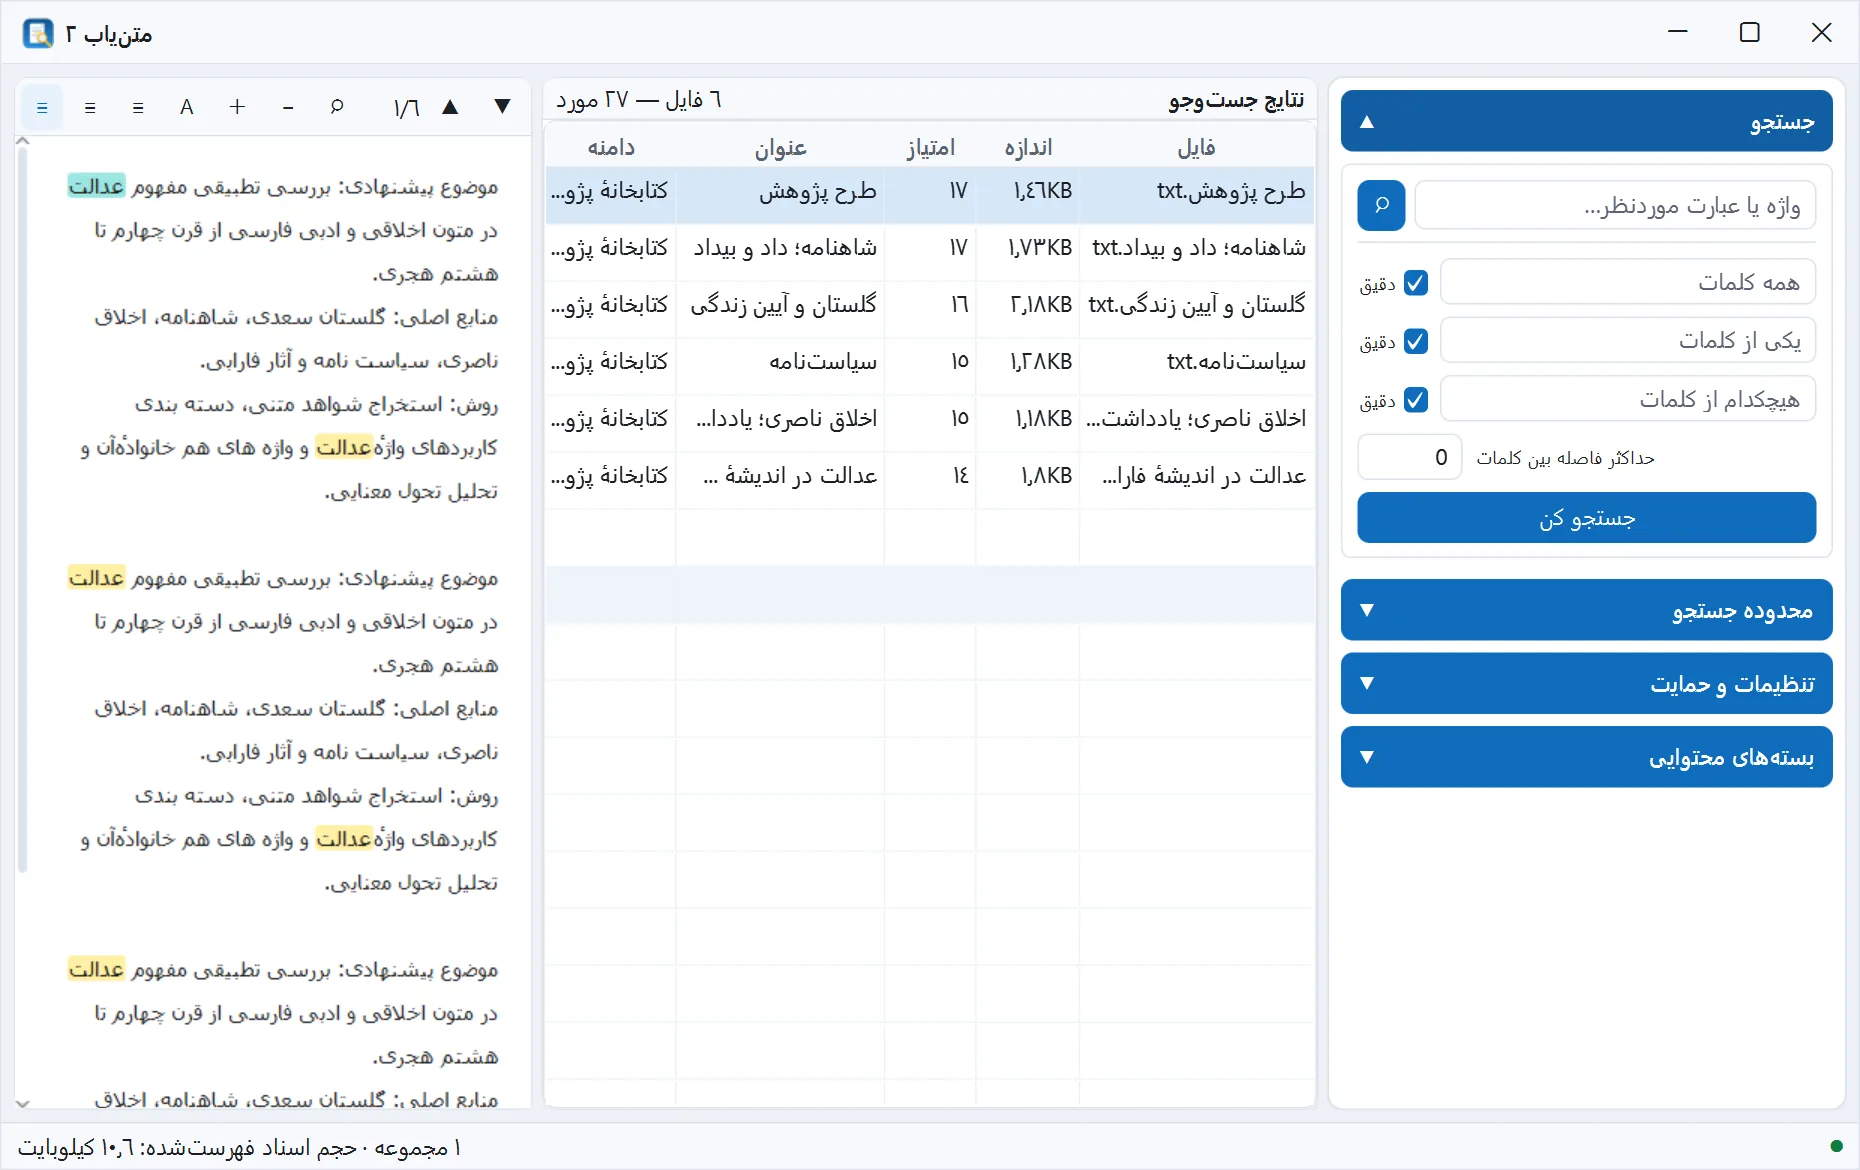
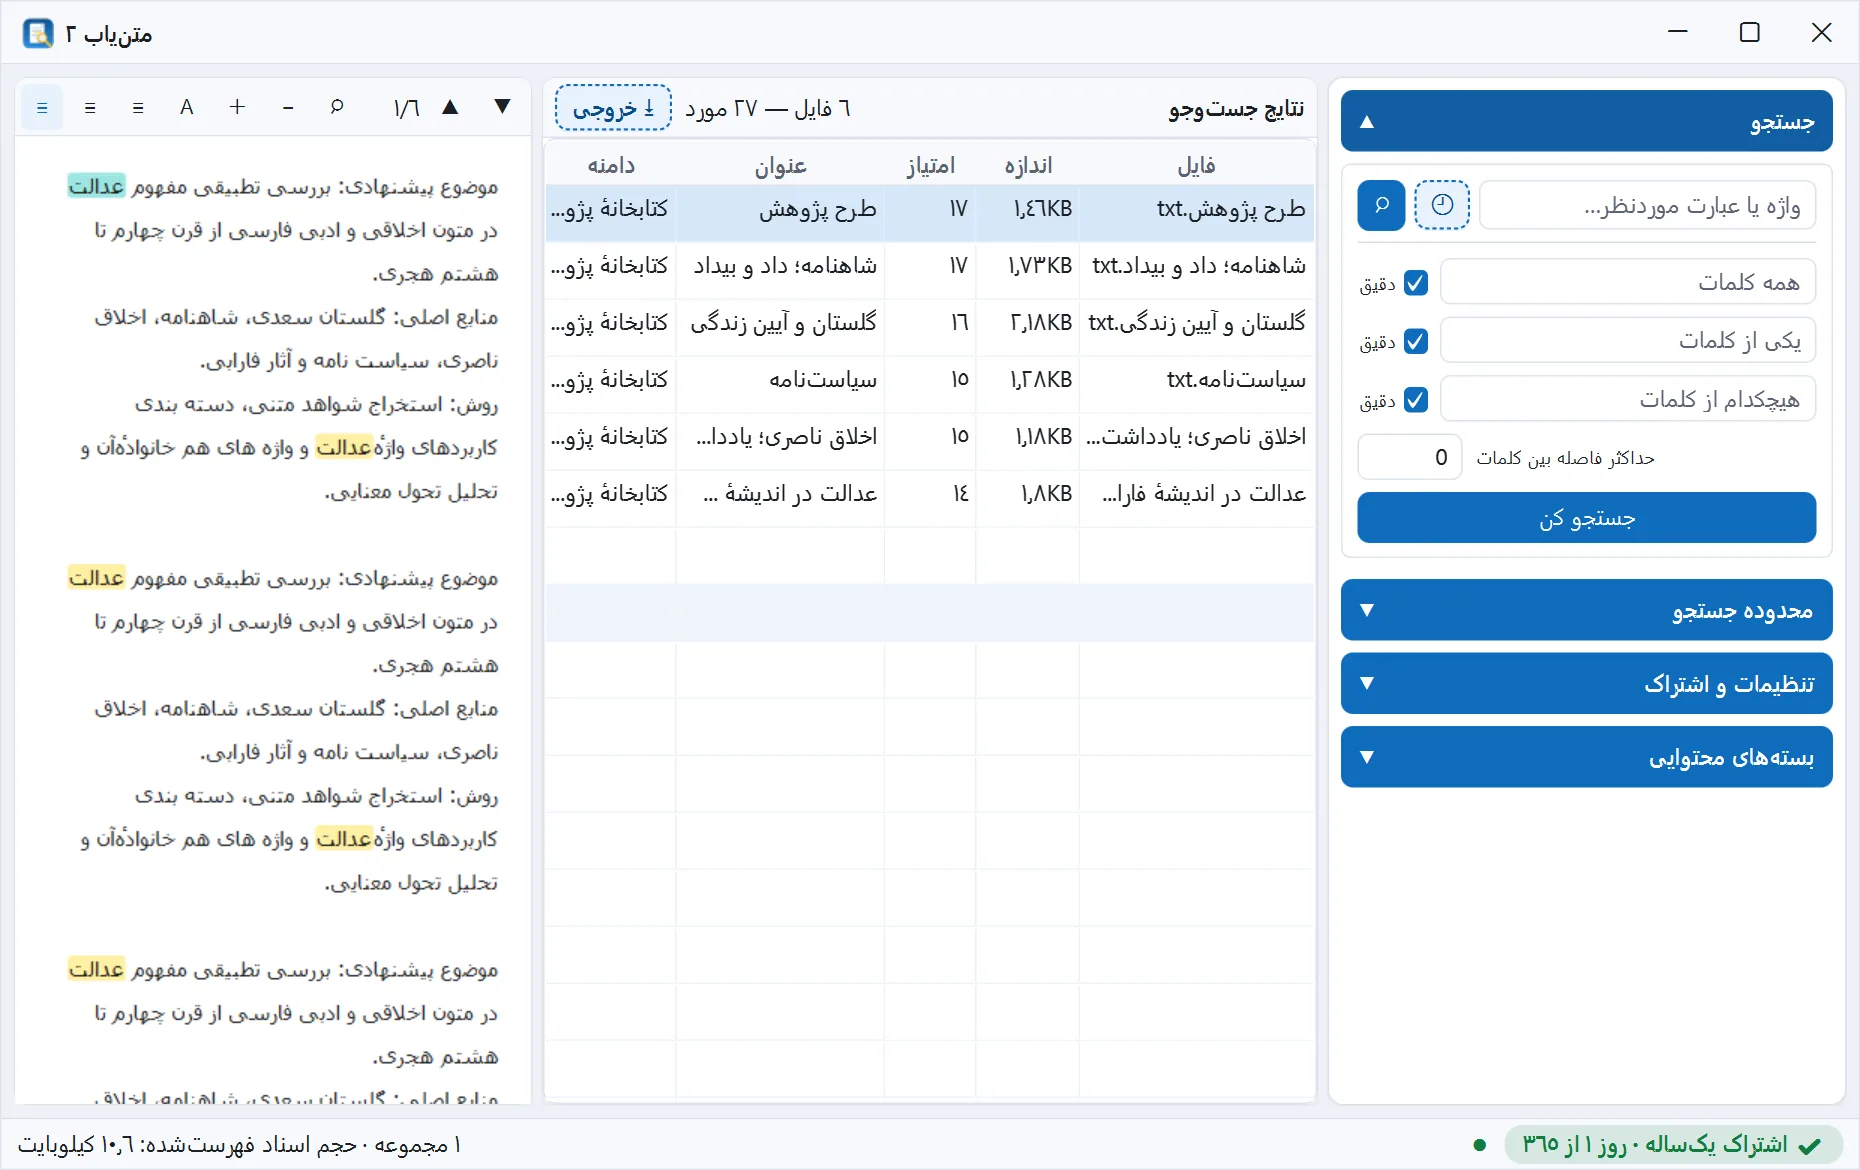
build(client): store jar uncompressed for smaller installer; Persian dates; fresh screenshots
Claude-Session: https://claude.ai/code/session_01EMH6YZuVvAqowMJ5tqWyMX

diff --git a/client/windows/app/src/main/kotlin/ir/matnyaab/ui/SubscriptionDialog.kt b/client/windows/app/src/main/kotlin/ir/matnyaab/ui/SubscriptionDialog.kt
@@ -109,7 +109,7 @@ class SubscriptionDialog(owner: Window?, private val m: SubscriptionManager, pri
             wrap(body),
         )
         if (s.start != null && s.end != null) {
-            details.children.add(Label("${s.planTitle} · از ${PersianUtil.toJalali(s.start.atStartOfDay())} تا ${PersianUtil.toJalali(s.end.atStartOfDay())}").apply { styleClass.add("muted") })
+            details.children.add(Label("${s.planTitle} · از ${SubTexts.fa(PersianUtil.toJalali(s.start.atStartOfDay()).replace('-', '/'))} تا ${SubTexts.fa(PersianUtil.toJalali(s.end.atStartOfDay()).replace('-', '/'))}").apply { styleClass.add("muted") })
             details.children.add(ProgressBar(s.dayNumber.toDouble() / s.daysTotal).apply { maxWidth = Double.MAX_VALUE; prefHeight = 8.0 })
             if (s.code.isNotBlank() && s.kind == Kind.CODE) details.children.add(Label("کد اشتراک: ${s.code}").apply { styleClass.add("muted") })
         }

diff --git a/client/windows/app/src/main/kotlin/ir/matnyaab/core/SubscriptionManager.kt b/client/windows/app/src/main/kotlin/ir/matnyaab/core/SubscriptionManager.kt
@@ -64,7 +64,7 @@ class SubscriptionManager(private val settings: AppSettingsManager, private val 
             return if (c.startsWith("MT") && c.length == 10) "MT-${c.substring(2, 6)}-${c.substring(6, 10)}" else ""
         }
 
-        fun money(n: Int): String = ir.matnyaab.util.PersianUtil.toPersianNumbers(String.format(java.util.Locale.US, "%,d", n).replace(',', '٬'))
+        fun money(n: Int): String = ir.matnyaab.util.PersianUtil.toPersianNumbers(String.format(java.util.Locale.US, "%,d", n)).replace(',', '٬')
     }
 
     @Volatile var config: Config = loadCachedConfig(); private set
